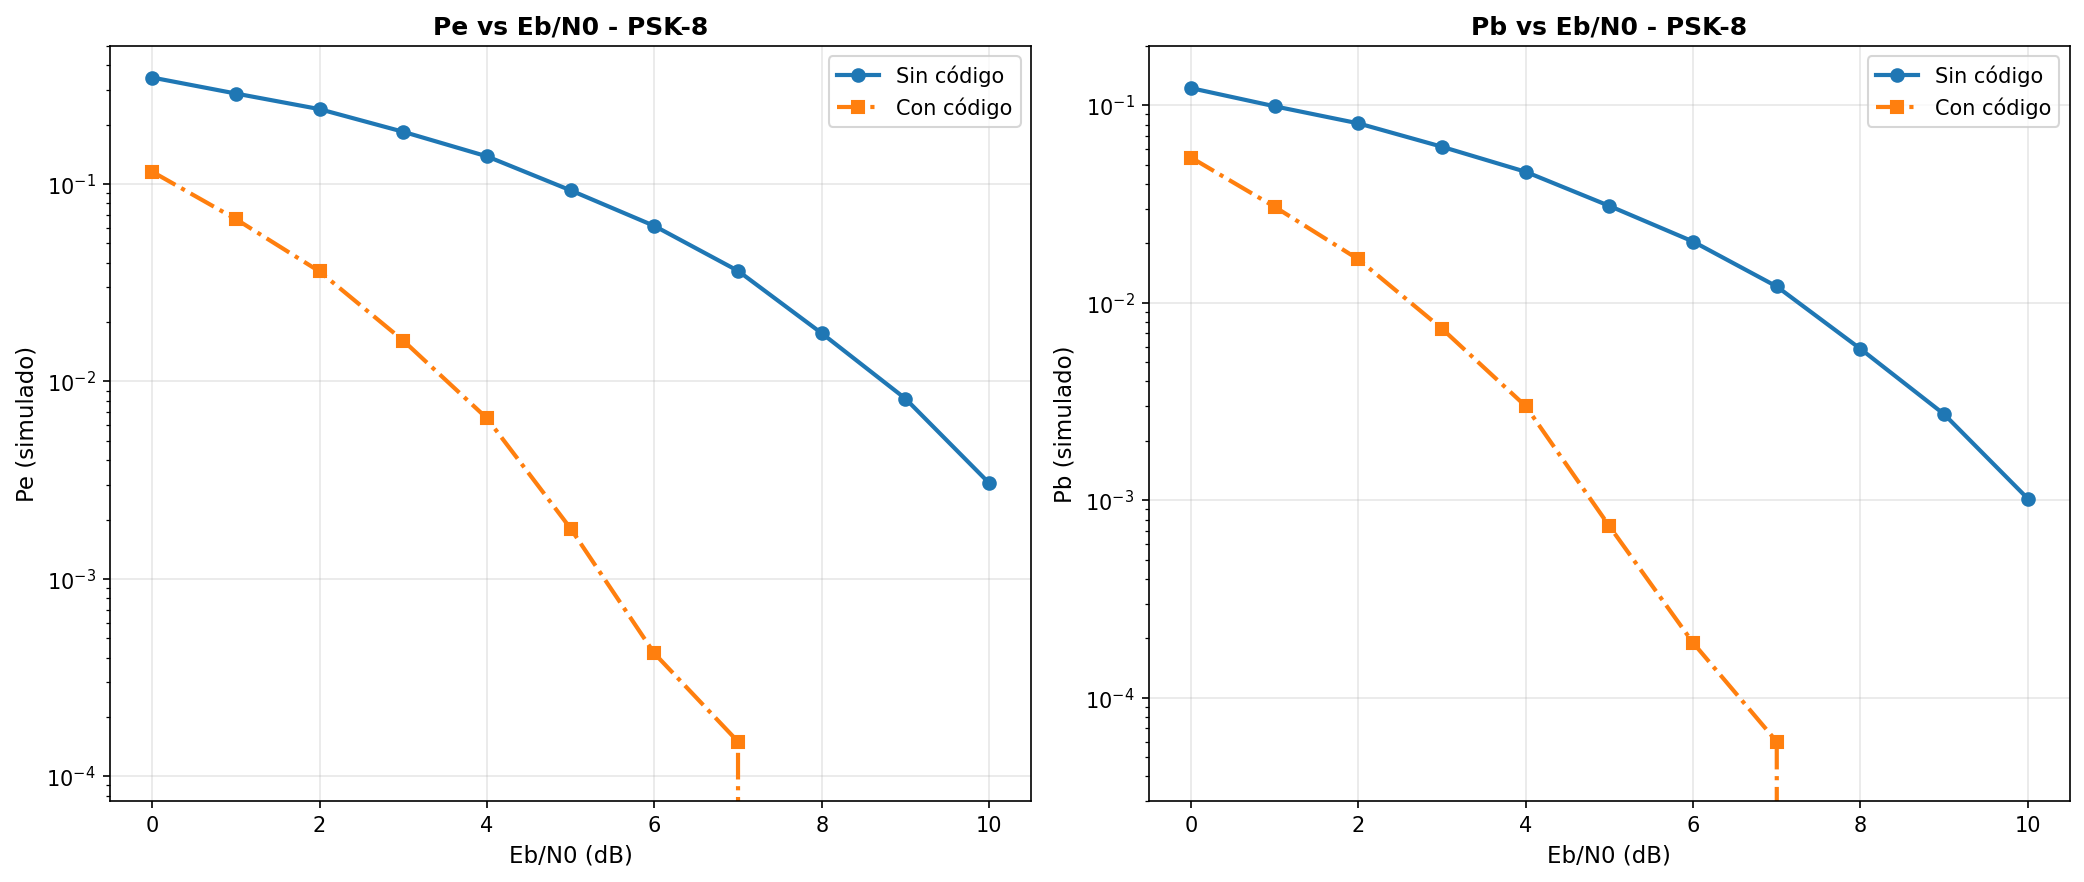
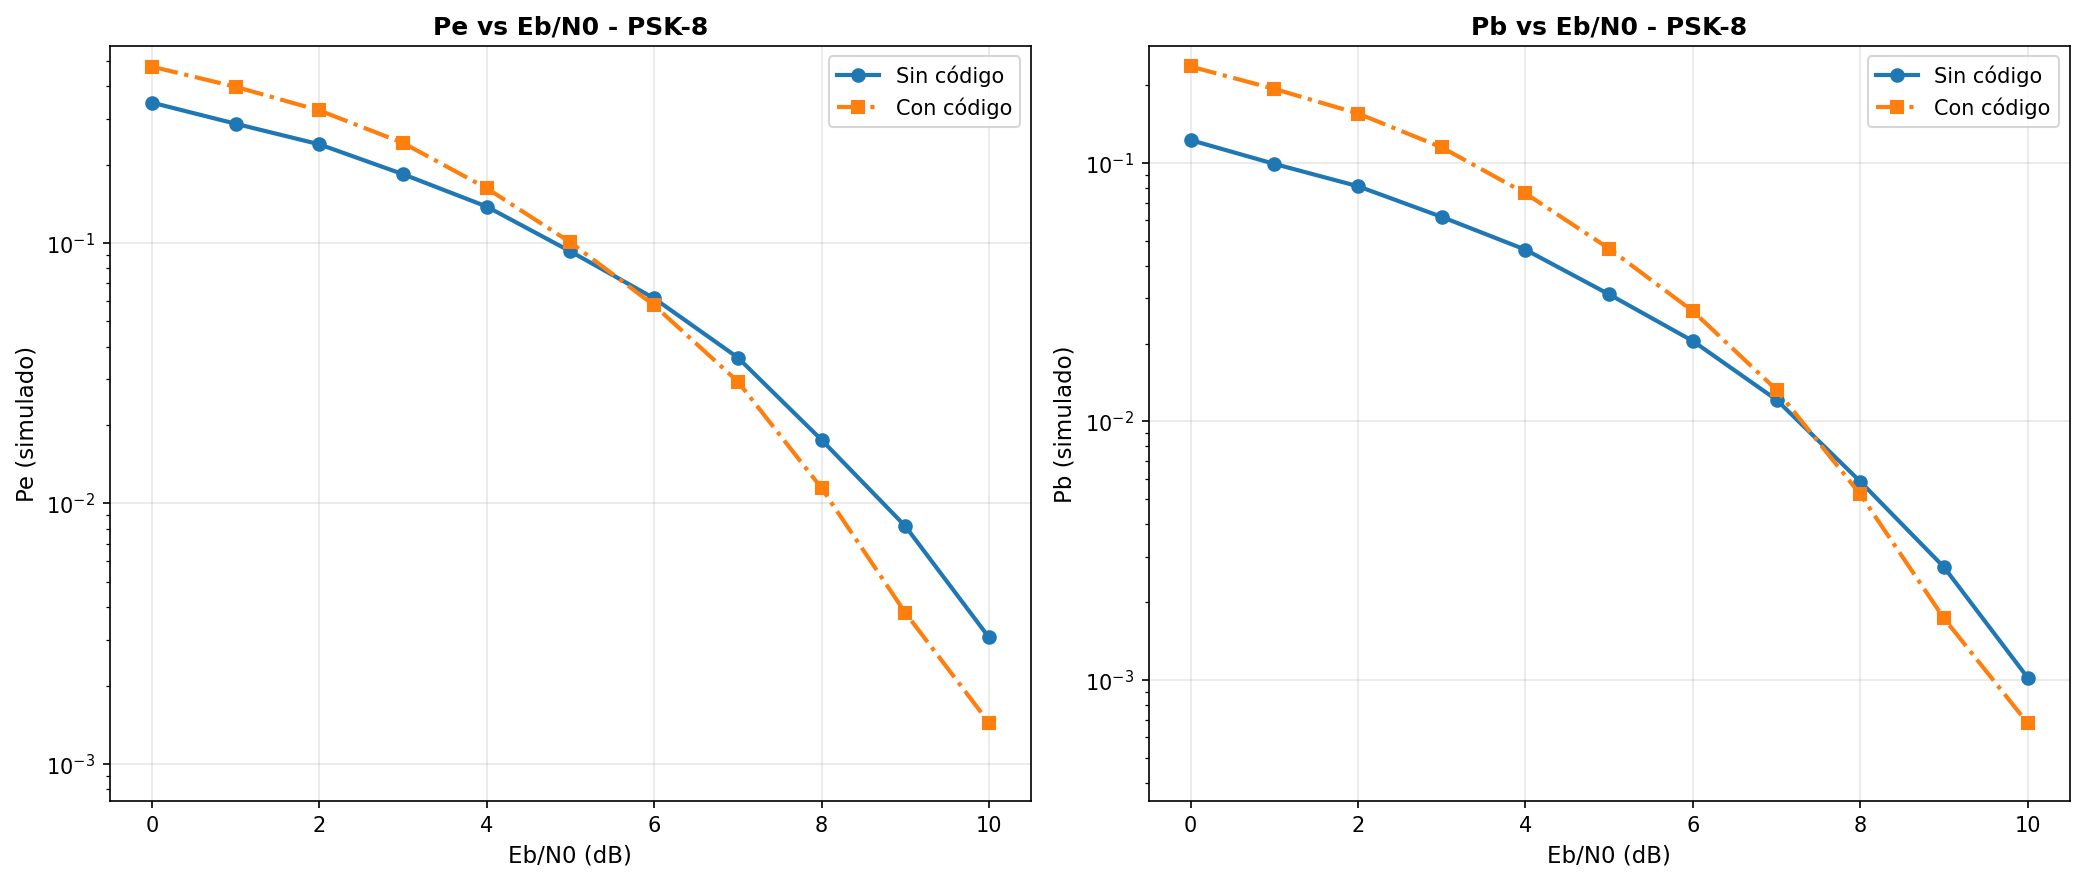
Haciendo correcciones para que el resultado sea correcto

diff --git a/src/analysis.py b/src/analysis.py
@@ -42,7 +42,7 @@ def pe_psk_theoretical(M: int, ebn0_linear: float) -> float:
         return 1.0
     
     arg = np.sqrt(2 * k * ebn0_linear) * sin(pi / M)
-    return 2 * q_function(arg)
+    return (1 if M == 2 else 2) * q_function(arg)
 
 
 def pb_psk_theoretical(M: int, ebn0_linear: float) -> float:
@@ -174,6 +174,7 @@ def run_system_analysis(
         [0, 0, 0, 1, 0, 1, 1, 0, 0, 1, 1, 1, 1, 0, 0],
         [0, 0, 0, 0, 1, 1, 0, 1, 1, 0, 0, 1, 1, 1, 1],
     ])
+    k, n = matriz_g.shape
     
     # Lista para almacenar resultados
     results = []
@@ -193,11 +194,16 @@ def run_system_analysis(
                 
                 # Codificación de canal (opcional)
                 if use_channel_coding:
-                    channel_coder = ChannelCoding(n=15, k=5, matriz_generadora=matriz_g)
+                    channel_coder = ChannelCoding(n=n, k=k, matriz_generadora=matriz_g)
                     bits = channel_coder.encode(bits, reporter)
+
+                scale_energy = 1.0
+                if use_channel_coding:
+                    # Ec = Eb * k/n 
+                    scale_energy = k / n
                 
                 # Modulación
-                modulator = Modulation(scheme=mod_scheme_enum, M=M)
+                modulator = Modulation(scheme=mod_scheme_enum, M=M, scale_energy = scale_energy)
                 symbols = modulator.encode(bits, reporter)
                 
                 # Canal AWGN
@@ -221,7 +227,6 @@ def run_system_analysis(
                 # Calcular SER (Pe_sim) - usar método interno de Modulation
                 # Este método convierte bits a símbolos y compara
                 # Asegurar que ambos arrays tengan la misma longitud (múltiplo de k para evitar problemas)
-                k = modulator.k
                 # Truncar a múltiplo de k para evitar problemas en la conversión a símbolos
                 trunc_len = (min_len // k) * k
                 if trunc_len > 0:

diff --git a/src/modulation.py b/src/modulation.py
@@ -24,13 +24,13 @@ class Scheme(Enum):
 
 # Vamos a tomar E_b = 1
 class Modulation(EncoderDecoder):
-    def __init__(self, scheme: Scheme = Scheme.PSK, M: int = 2):
+    def __init__(self, scheme: Scheme = Scheme.PSK, M: int = 2, scale_energy: float = 1.0):
         self.scheme = scheme
         self.M = M               # Número de símbolos
         self.N = 0               # Dimensiones
         self.k = int(np.log2(M)) # bits por símbolo
         self.added_bits = 0      # padding bits
-        self.batchs = 1000       # tamaño de batch 
+        self.batchs = 5000       # tamaño de batch 
 
         if scheme == Scheme.FSK:
             self.symbols = np.eye(M)
@@ -50,7 +50,7 @@ class Modulation(EncoderDecoder):
                 self.symbols[Modulation._bin_to_gray(i)] += symbols[i]
 
         # Como E_b = 1 entonces E_s = k * E_b = k => sqrt(E_s) = sqrt(k)
-        self.symbols *= np.sqrt(self.k)
+        self.symbols *= np.sqrt(self.k * scale_energy)
     
     @staticmethod
     def _bin_to_gray(n: int) -> int:

diff --git a/src/main.py b/src/main.py
@@ -31,12 +31,13 @@ def main():
         [0, 0, 0, 1, 0, 1, 1, 0, 0, 1, 1, 1, 1, 0, 0],
         [0, 0, 0, 0, 1, 1, 0, 1, 1, 0, 0, 1, 1, 1, 1],
     ])
+    k, n = matriz_g.shape
 
     pipe = pipeline.Pipeline([
         file.File(out_prefix=args.out_prefix),
         source.Source(),
-        cod_channel.ChannelCoding(n = 15, k = 5, matriz_generadora = matriz_g),
-        modulation.Modulation(scheme = modulation.Scheme.PSK, M = 2**3),
+        cod_channel.ChannelCoding(n = n, k = k, matriz_generadora = matriz_g),
+        modulation.Modulation(scheme = modulation.Scheme.PSK, M = 2**3, scale_energy = k / n),
         channel.Channel(eb_n0_db = 2),
     ], report.ReporterTerminal(args.out_prefix))
 
